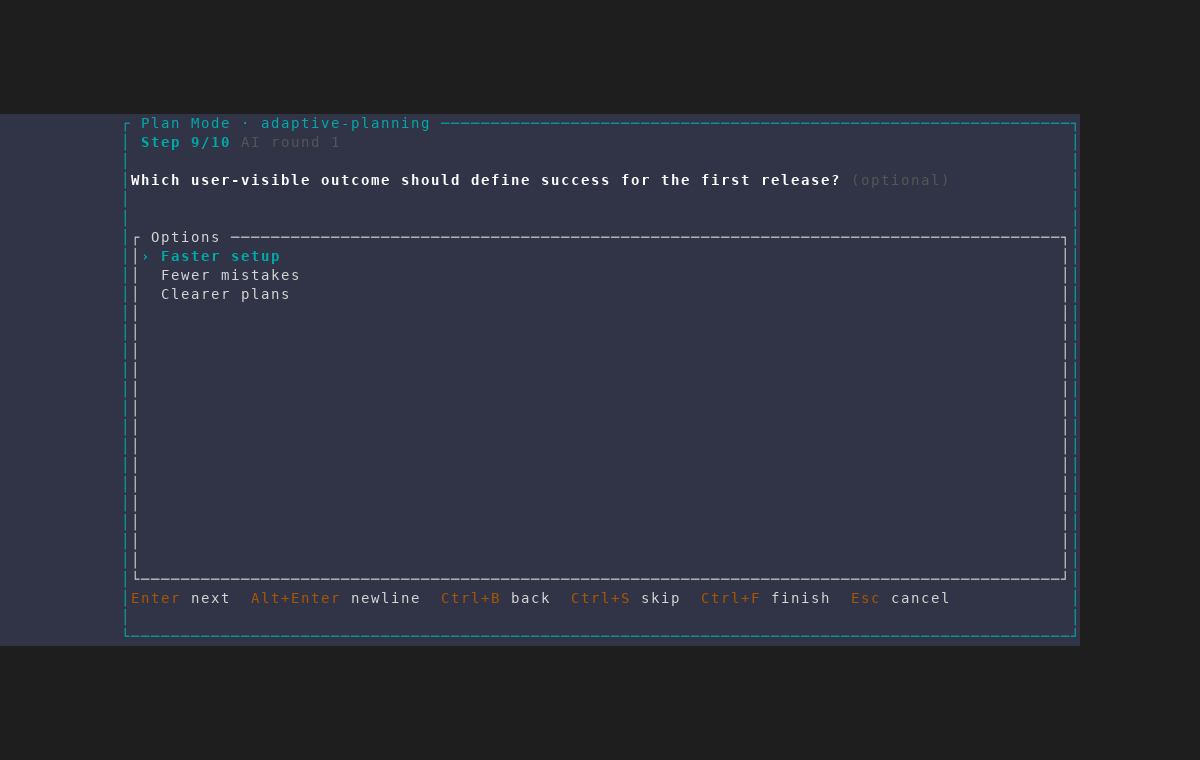
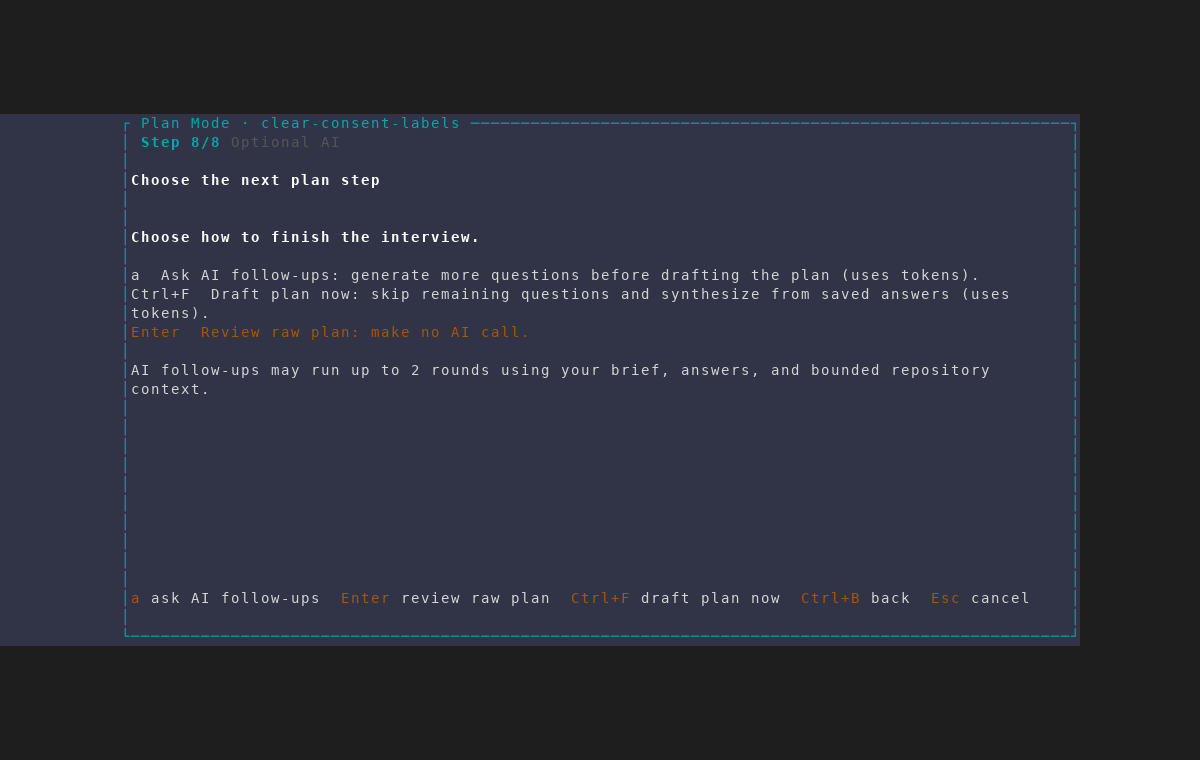
Clarify plan interview AI actions

diff --git a/src/ui/dialogs/plan_interview.rs b/src/ui/dialogs/plan_interview.rs
@@ -151,22 +151,26 @@ pub fn draw_plan_interview_dialog(
             frame.render_widget(
                 Paragraph::new(vec![
                     Line::from(Span::styled(
-                        "Adaptive follow-up questions are optional.",
+                        "Choose how to finish the interview.",
                         Style::default()
                             .fg(theme.text.to_color())
                             .add_modifier(Modifier::BOLD),
                     )),
                     Line::from(""),
                     Line::from(
-                        "AMF will send your brief, answers, and bounded repository context to an available agent harness.",
+                        "a  Ask AI follow-ups: generate more questions before drafting the plan (uses tokens).",
                     ),
-                    Line::from(""),
+                    Line::from(
+                        "Ctrl+F  Draft plan now: skip remaining questions and synthesize from saved answers (uses tokens).",
+                    ),
                     Line::from(Span::styled(
-                        format!(
-                            "No agent tokens are used unless you opt in. Opting in may run up to {} AI rounds.",
-                            crate::plan_interview::MAX_AI_ROUNDS
-                        ),
+                        "Enter  Review raw plan: make no AI call.",
                         Style::default().fg(theme.warning.to_color()),
+                    )),
+                    Line::from(""),
+                    Line::from(format!(
+                        "AI follow-ups may run up to {} rounds using your brief, answers, and bounded repository context.",
+                        crate::plan_interview::MAX_AI_ROUNDS
                     )),
                 ])
                 .wrap(Wrap { trim: false }),
@@ -219,11 +223,11 @@ pub fn draw_plan_interview_dialog(
     } else if state.phase == PlanInterviewPhase::AiConsent {
         Line::from(vec![
             hint("a", theme),
-            Span::raw(" generate (uses tokens)  "),
+            Span::raw(" ask AI follow-ups  "),
             hint("Enter", theme),
-            Span::raw(" finish without AI  "),
+            Span::raw(" review raw plan  "),
             hint("Ctrl+F", theme),
-            Span::raw(" synthesize now  "),
+            Span::raw(" draft plan now  "),
             hint("Ctrl+B", theme),
             Span::raw(" back  "),
             hint("Esc", theme),
@@ -254,7 +258,7 @@ pub fn draw_plan_interview_dialog(
             hint("Ctrl+S", theme),
             Span::raw(" skip  "),
             hint("Ctrl+F", theme),
-            Span::raw(" synthesize now (uses tokens)  "),
+            Span::raw(" draft plan now (uses tokens)  "),
             hint("Esc", theme),
             Span::raw(" cancel"),
         ])
@@ -343,9 +347,7 @@ fn question_prompt(state: &PlanInterviewState, theme: &Theme) -> Paragraph<'stat
             .current_question()
             .map(|question| (question.text.clone(), question.optional))
             .unwrap_or_default(),
-        PlanInterviewPhase::AiConsent => {
-            ("Generate adaptive follow-up questions?".to_string(), false)
-        }
+        PlanInterviewPhase::AiConsent => ("Choose the next plan step".to_string(), false),
         PlanInterviewPhase::AiLoading => ("Generating follow-up questions".to_string(), false),
         PlanInterviewPhase::SynthesisLoading => {
             ("Synthesizing implementation plan".to_string(), false)
@@ -861,4 +863,45 @@ fn draw_options(
 
 fn hint(key: &'static str, theme: &Theme) -> Span<'static> {
     Span::styled(key, Style::default().fg(theme.warning.to_color()))
+}
+
+#[cfg(test)]
+mod tests {
+    use ratatui::{Terminal, backend::TestBackend};
+
+    use super::*;
+
+    #[test]
+    fn ai_consent_distinguishes_all_three_actions() {
+        let mut state = PlanInterviewState::new(
+            "clear-consent-labels".to_string(),
+            "interview-key".to_string(),
+            Vec::new(),
+            None,
+        );
+        state.phase = PlanInterviewPhase::AiConsent;
+
+        let backend = TestBackend::new(120, 40);
+        let mut terminal = Terminal::new(backend).unwrap();
+        let throbber = throbber_widgets_tui::ThrobberState::default();
+        terminal
+            .draw(|frame| {
+                draw_plan_interview_dialog(frame, &mut state, None, &Theme::default(), &throbber)
+            })
+            .unwrap();
+
+        let rendered = terminal
+            .backend()
+            .buffer()
+            .content()
+            .iter()
+            .map(|cell| cell.symbol())
+            .collect::<String>();
+        assert!(rendered.contains("Ask AI follow-ups"));
+        assert!(rendered.contains("Draft plan now"));
+        assert!(rendered.contains("Review raw plan"));
+        assert!(rendered.contains("make no AI call"));
+        assert!(!rendered.contains("finish without AI"));
+        assert!(!rendered.contains("synthesize now"));
+    }
 }

diff --git a/src/ui/status.rs b/src/ui/status.rs
@@ -804,6 +804,16 @@ pub fn draw(frame: &mut Frame, app: &App, area: Rect) {
                 Span::styled("n", key_style()),
                 Span::raw(" leave session running"),
             ]),
+            crate::app::PlanInterviewPhase::AiConsent => Line::from(vec![
+                Span::styled(" a", key_style()),
+                Span::raw(" ask AI follow-ups  "),
+                Span::styled("Enter", key_style()),
+                Span::raw(" review raw plan  "),
+                Span::styled("Ctrl+F", key_style()),
+                Span::raw(" draft plan now  "),
+                Span::styled("Esc", key_style()),
+                Span::raw(" cancel"),
+            ]),
             _ => Line::from(vec![
                 Span::styled(" Enter", key_style()),
                 Span::raw(" next  "),
@@ -814,7 +824,7 @@ pub fn draw(frame: &mut Frame, app: &App, area: Rect) {
                 Span::styled("Ctrl+S", key_style()),
                 Span::raw(" skip  "),
                 Span::styled("Ctrl+F", key_style()),
-                Span::raw(" synthesize now  "),
+                Span::raw(" draft plan now  "),
                 Span::styled("Esc", key_style()),
                 Span::raw(" cancel"),
             ]),
@@ -1047,4 +1057,60 @@ pub fn draw(frame: &mut Frame, app: &App, area: Rect) {
     };
     let right = Paragraph::new(Line::from(right_spans));
     frame.render_widget(right, right_area);
+}
+
+#[cfg(test)]
+mod tests {
+    use std::collections::HashMap;
+
+    use ratatui::{Terminal, backend::TestBackend};
+
+    use super::*;
+    use crate::app::{PlanInterviewPhase, PlanInterviewState};
+    use crate::project::ProjectStore;
+    use crate::traits::{MockTmuxOps, MockWorktreeOps};
+
+    #[test]
+    fn ai_consent_status_names_each_distinct_action() {
+        let mut app = App::new_for_test(
+            ProjectStore {
+                version: 5,
+                projects: vec![],
+                session_bookmarks: vec![],
+                available_harnesses: vec![],
+                prompt_templates: Vec::new(),
+                extra: HashMap::new(),
+            },
+            Box::new(MockTmuxOps::new()),
+            Box::new(MockWorktreeOps::new()),
+        );
+        let mut interview = PlanInterviewState::new(
+            "clear-consent-labels".to_string(),
+            "interview-key".to_string(),
+            Vec::new(),
+            None,
+        );
+        interview.phase = PlanInterviewPhase::AiConsent;
+        app.mode = AppMode::PlanInterview(interview);
+
+        let backend = TestBackend::new(140, 4);
+        let mut terminal = Terminal::new(backend).unwrap();
+        terminal
+            .draw(|frame| {
+                let area = frame.area();
+                draw(frame, &app, area);
+            })
+            .unwrap();
+        let rendered = terminal
+            .backend()
+            .buffer()
+            .content()
+            .iter()
+            .map(|cell| cell.symbol())
+            .collect::<String>();
+
+        assert!(rendered.contains("ask AI follow-ups"));
+        assert!(rendered.contains("review raw plan"));
+        assert!(rendered.contains("draft plan now"));
+    }
 }

diff --git a/src/ui/dialogs/help.rs b/src/ui/dialogs/help.rs
@@ -95,13 +95,20 @@ fn draw_help_at(frame: &mut Frame, area: Rect, scroll_offset: usize, theme: &The
 
     let plan_interview_keybinds: Vec<(&str, &str)> = vec![
         ("r / d", "Resume or discard a saved draft (on entry)"),
-        ("Enter", "Save answer and continue"),
+        (
+            "Enter",
+            "Save answer and continue; at the AI prompt, review raw plan (no tokens)",
+        ),
         ("Alt+Enter", "Insert a newline (free-text answers)"),
         ("j/k / \u{2191}/\u{2193}", "Choose a select-option answer"),
         ("Ctrl+B", "Return to the previous question"),
         ("Ctrl+S", "Skip an optional question"),
         ("Ctrl+R", "Restore the previous interview's answer (re-run)"),
-        ("Ctrl+F", "Synthesize now with answers so far (uses tokens)"),
+        (
+            "a",
+            "Ask AI follow-ups at the optional AI prompt (uses tokens)",
+        ),
+        ("Ctrl+F", "Draft plan now from saved answers (uses tokens)"),
         (
             "Esc",
             "Cancel (launch without plan, or leave plan unchanged)",

diff --git a/src/app/state.rs b/src/app/state.rs
@@ -3759,7 +3759,7 @@ pub struct PlanInterviewState {
     /// Set when the user finishes early or declines the token-use prompt so
     /// the `Done` transition skips any remaining AI rounds.
     pub skip_ai_rounds: bool,
-    /// Set by the explicit "synthesize now" action. This permits the final
+    /// Set by the explicit "draft plan now" action. This permits the final
     /// headless pass without opting into adaptive rounds while preserving the
     /// consent screen's guarantee that ordinary completion spends no tokens.
     pub synthesis_requested: bool,

diff --git a/docs/backlog/plan-mode-interview-plan.md b/docs/backlog/plan-mode-interview-plan.md
@@ -355,7 +355,7 @@ picks the plan up with no display-layer changes.
 - [x] Question dialog UI: multi-line free-text (TextEditor) and
       select-options rendering, progress header, skip/back keys,
       "finish early" key (writes answers-so-far; becomes
-      "synthesize now" once Epic 4 lands)
+      "draft plan now" once Epic 4 lands)
 - [x] Feature-creation integration: defer `PreparedFeatureLaunch`
       until interview completes; abort path (launch-anyway vs cancel)
 - [x] Write brief + answers into the workdir's `.claude/plan.md`
@@ -585,13 +585,16 @@ interview with prior answers pre-filled, get an updated
 
 ### Epic 6 — Polish
 
-- [ ] Replace the ambiguous AI-consent labels everywhere they appear
+- [x] Replace the ambiguous AI-consent labels everywhere they appear
       (dialog, status footer, help, and screenshots): `a` should say
       "ask AI follow-ups" because it generates more questions;
       `Ctrl+F` should say "draft plan now" because it skips every
       remaining question and generates the plan from answers already
       collected. Keep the no-token `Enter` action explicit as
-      "review raw plan."
+      "review raw plan." The consent dialog now spells out the behavioral
+      and token-cost difference between all three actions, and the compact
+      footers use those same labels. The two adaptive-interview screenshots
+      were regenerated from the updated UI.
 - [ ] Re-evaluate the built-in question bank after dogfooding:
       identify which questions consistently add useful planning
       context, then remove or combine low-value prompts so the
@@ -621,7 +624,7 @@ recorded inline in the design sections above):
   gitignore only if AMF created the file (see handoff section).
 - **Headless flags** → pinned against installed CLIs (see AI
   plumbing); re-verify at implementation.
-- **Question budget UX** → yes: dedicated "synthesize now" /
+- **Question budget UX** → yes: dedicated "draft plan now" /
   "finish early" key from any phase (Epic 1).
 - **Non-worktree feature collisions** → fine by design (one workdir =
   one plan file); unit test added to Epic 1.

diff --git a/CHANGELOG.md b/CHANGELOG.md
@@ -50,6 +50,13 @@ are tagged.
   prompt pointing at the new plan — seeded in the composer, not sent, so you
   decide when it lands. Declining costs nothing: the plan is written either way.
 
+### Changed
+
+- **The optional AI step now says exactly what each choice does.** Press `a` to
+  ask AI follow-up questions, `Ctrl+F` to draft the plan immediately from saved
+  answers, or `Enter` to review a raw plan without spending agent tokens. The
+  dialog and key hints clearly identify which choices use tokens.
+
 ### Fixed
 
 - **Custom-session Nerd Font icons can now be chosen visually in the config

diff --git a/docs/backlog/README.md b/docs/backlog/README.md
@@ -64,7 +64,7 @@ doc always says exactly what remains.
 ## Index
 
 - [Plan Mode: guided feature discovery](plan-mode-interview-plan.md) —
-  _Ready._ Grow plan mode from a boolean + PLAN.md skeleton into a
+  _In progress._ Grow plan mode from a boolean + PLAN.md skeleton into a
   native TUI interview: feature brief, built-in + per-project question
   banks, AI-adaptive follow-up rounds (headless run of the feature's
   own agent harness, with fallback), then an
